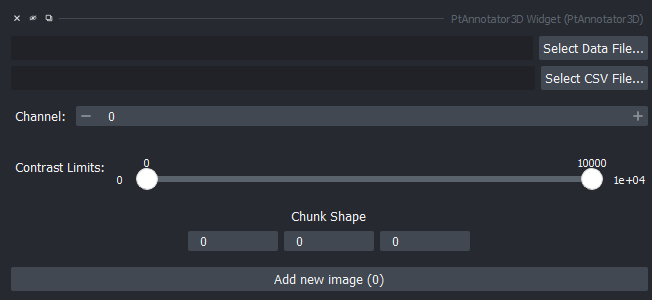
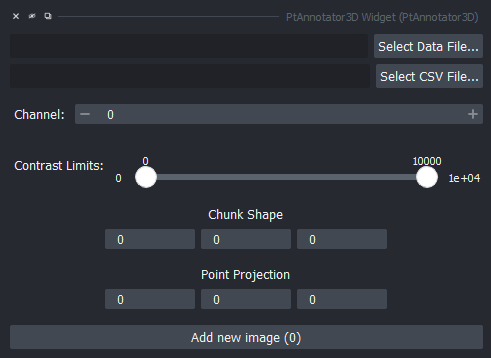
replace `'shape'` by `'path'` in bbox export and update README

Changed region(s): [[0.0, 0.03, 1.0, 0.99], [0.0305, 0.45, 0.2138, 0.48]]

diff --git a/src/ptannotator3d/_ptannotator3d.py b/src/ptannotator3d/_ptannotator3d.py
@@ -228,7 +228,7 @@ class PtAnnotator3DWidget(QWidget):
         ox, oy, oz = self.offset
         dx, dy, dz = self.offset
         vertices = self.offset+BOX_PATHS*self._chunk_shape
-        return [[idx, "shape", e, vx, vy, vz] for e, (vx, vy, vz) in enumerate(vertices)]
+        return [[idx, "path", e, vx, vy, vz] for e, (vx, vy, vz) in enumerate(vertices)]
 
     def generator(self, channel):
         """Generator of chunks and points. Selects random coordinates.

diff --git a/README.md b/README.md
@@ -33,6 +33,7 @@ From top to bottom:
 - Select contrast limits for all chunks to be loaded. This controller is synchronised to the image layers' contrast limits slider, but persists along chunks. 
   - You can still change the contrast limits of an individual layer using its layer controls, to fine tune the visuals for that layer, without changing this controller for future chunks. 
 - Select the chunk shape. Each loaded chunk loaded will have this shape. It can of course be changed at any point during use of the plugin.
+- Select the point projection distance. This controls how far away a point has to be from a slice in each axis to be projected on the screen in 2D view.
 - Load a chunk by clicking on `Add new image (0)` or pressing `0` on a NumPad if you have one.
 
 
@@ -40,11 +41,13 @@ After clicking on the `Add new image (0)` for the first time, if all other setti
 
 ![](https://github.com/GuignardLab/ptannotator3d/blob/main/docs/layers.png)
 
-- `Chunk` is an Image layer corresponding to the chunk of the image that was loaded.
+- `Chunk` is an Image layer corresponding to the chunk of the image that was loaded. `Chunk (+1)` and `Chunk (-1)` are cyan and red additively colored offsets of the chunk that help with knowing whether a cell is sliding in or out of the view (currently only supports Z-axis, I'm not sure I'll implement it for the others). 
 - `From CSV (X points)` is a Points layer containing all the `X` points already present in the chunk according to the CSV selected in the settings. 
 - `New Points` is an empty Points layer. It's the one the you should place points in.
 
 Once you're satisfied with the points in the current chunk, commit them to the CSV by loading the next chunk. As the next chunk loads in, replacing these three layers, the points placed in `New Points` will be appended to the CSV, and will be visible in the `From CSV` layer if ever the area where they were placed is loaded again.
+
+A list of wireframe bounding boxes will be stored as a shapes layer to be displayed with the 3D image and the points, so it's possible to know which parts of the image were not segmented and should therefore be ignored for certain validation metrics, for example.
 
 ## Contributing
 
